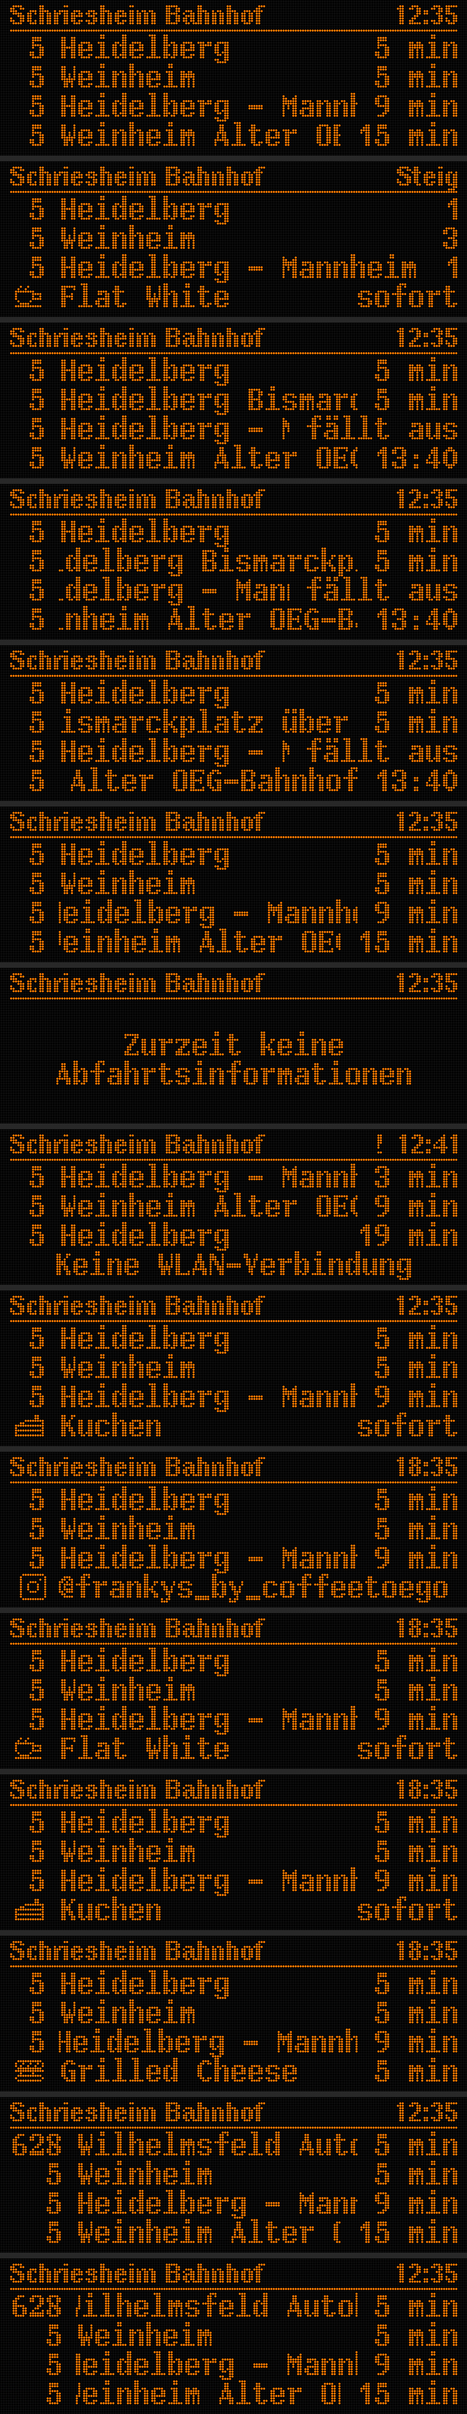
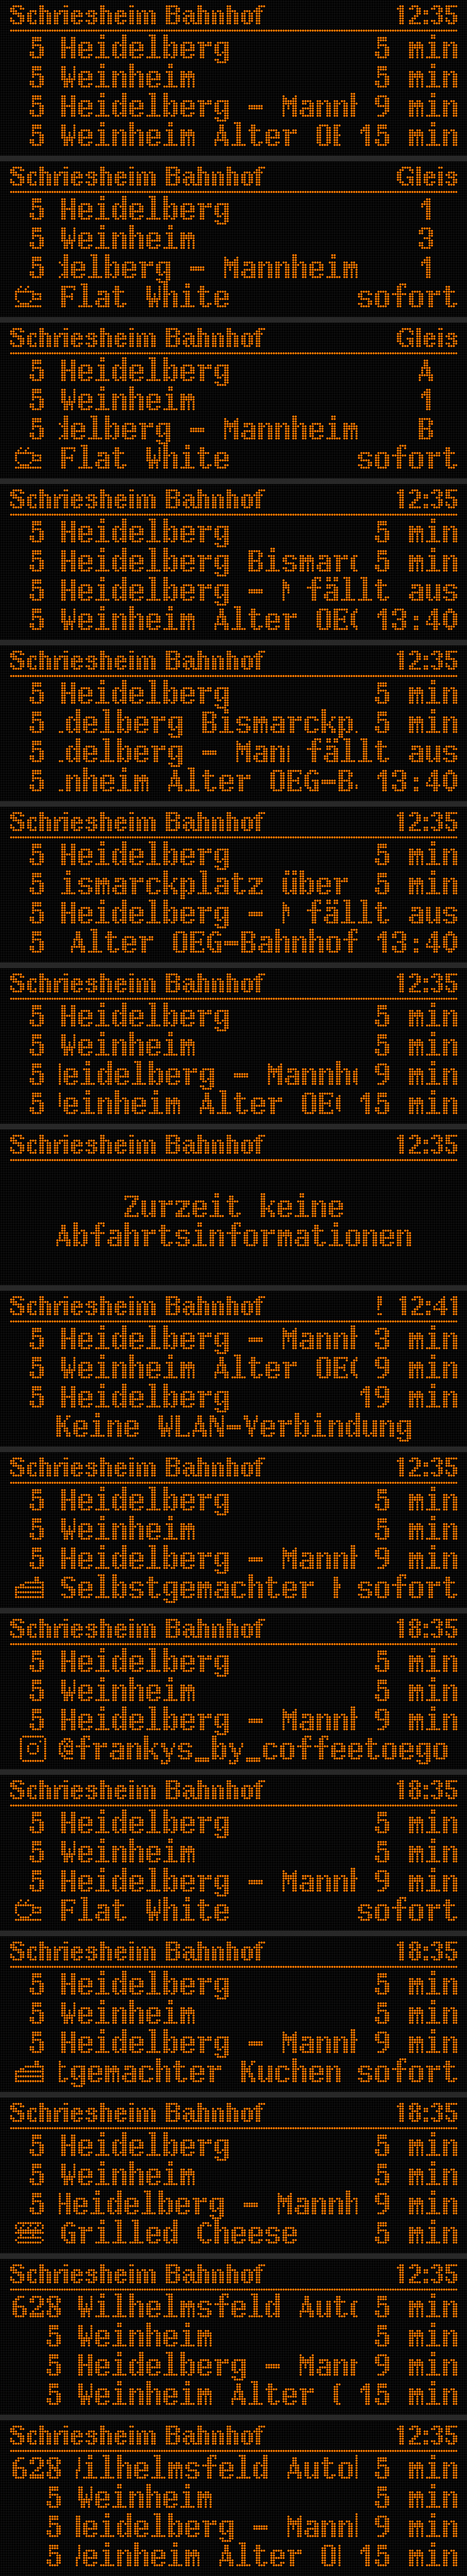
Gleise mittig unter der Überschrift, "Selbstgemachter Kuchen"
- Gleisnamen werden nach ihren Pixeln zentriert, so stehen "1" und "A"
  genau untereinander; das Ziel behält seine Breite neben dem Countdown.
- Promo "Kuchen" heißt jetzt "Selbstgemachter Kuchen".

Changed region(s): [[0.0, 0.0, 1.0, 0.9993]]

diff --git a/src/render.cpp b/src/render.cpp
@@ -32,6 +32,27 @@ static int ROW_ASCENT, ROW_DESCENT;  // set per frame from the font
 
 static int width(U8G2_FOR_ADAFRUIT_GFX& u8, const char* s) { return u8.getUTF8Width(s); }
 
+// Draws nothing, only records which columns a text really covers: glyphs sit
+// differently in their advance width ("1" vs "A"), so centring by width alone
+// doesn't line them up.
+struct InkBounds : Adafruit_GFX {
+  int minX = 32767, maxX = -32768;
+  InkBounds() : Adafruit_GFX(32767, 32767) {}
+  void drawPixel(int16_t x, int16_t, uint16_t) override {
+    if (x < minX) minX = x;
+    if (x > maxX) maxX = x;
+  }
+};
+
+// Twice the x of the ink centre of `s` drawn at x = 0 (doubled: no rounding).
+static int inkCenter2(Adafruit_GFX& g, U8G2_FOR_ADAFRUIT_GFX& u8, const char* s) {
+  InkBounds ink;
+  u8.begin(ink);
+  u8.drawUTF8(0, 100, s);
+  u8.begin(g);
+  return ink.maxX >= ink.minX ? ink.minX + ink.maxX : width(u8, s) - 1;
+}
+
 static void centered(U8G2_FOR_ADAFRUIT_GFX& u8, int base, const char* s) {
   u8.drawUTF8((W - width(u8, s)) / 2, base, s);
 }
@@ -470,20 +491,31 @@ void renderFrame(Adafruit_GFX& g, U8G2_FOR_ADAFRUIT_GFX& u8, uint16_t color, con
     }
     if (promoIsDep && promoLineWidth(u8, promoDep) > lineW) lineW = promoLineWidth(u8, promoDep);
     const int destX = MARGIN_X + lineW + COL_GAP;
+    // Platforms are centred (by their ink) under the header's PLATFORM_HEADER
+    u8.setFont(FONT_HEADER);
+    int headerX = W - MARGIN_X - width(u8, PLATFORM_HEADER);  // as in drawHeader
+    int platformCenter2 = 2 * headerX + inkCenter2(g, u8, PLATFORM_HEADER);
+    u8.setFont(FONT_ROW);
     char right[MAX_ROWS + 1][16];
-    int rightX[MAX_ROWS + 1];
+    int rightX[MAX_ROWS + 1], destEnd[MAX_ROWS + 1];
     // 1) destinations (possibly scrolled), 2) clip all rows, 3) line + time
     for (int i = 0; i < n; i++) {
-      if (showPlatforms && !rows[i]->cancelled && rows[i]->platformLabel[0])
-        snprintf(right[i], sizeof(right[i]), "%s", rows[i]->platformLabel);
-      else
-        formatCountdown(*rows[i], now, right[i], sizeof(right[i]));
+      formatCountdown(*rows[i], now, right[i], sizeof(right[i]));
       rightX[i] = W - MARGIN_X - width(u8, right[i]);
-      int overflow = width(u8, rows[i]->dest) - (rightX[i] - COL_GAP - destX);
+      // the destination keeps the width it has next to the countdown
+      destEnd[i] = rightX[i] - COL_GAP;
+      if (showPlatforms && !rows[i]->cancelled && rows[i]->platformLabel[0]) {
+        snprintf(right[i], sizeof(right[i]), "%s", rows[i]->platformLabel);
+        int x = (platformCenter2 - inkCenter2(g, u8, right[i])) / 2;
+        int maxX = W - MARGIN_X - width(u8, right[i]);  // a long label stays on the board
+        rightX[i] = x < maxX ? x : maxX;
+        if (rightX[i] - COL_GAP < destEnd[i]) destEnd[i] = rightX[i] - COL_GAP;
+      }
+      int overflow = width(u8, rows[i]->dest) - (destEnd[i] - destX);
       int off = overflow > 0 ? pingPongOffset(overflow, ms) : 0;
       u8.drawUTF8(destX - off, rowBase(i), rows[i]->dest);
     }
-    for (int i = 0; i < n; i++) clipRow(g, rowBase(i), destX, rightX[i] - COL_GAP);
+    for (int i = 0; i < n; i++) clipRow(g, rowBase(i), destX, destEnd[i]);
     for (int i = 0; i < n; i++) {
       int base = rowBase(i);
       u8.drawUTF8(MARGIN_X + lineW - width(u8, rows[i]->line), base, rows[i]->line);  // right-aligned

diff --git a/tools/preview/preview.cpp b/tools/preview/preview.cpp
@@ -106,6 +106,10 @@ int main(int argc, char** argv) {
   Board normal = fixtureBoard(now);
   frames.push_back(render(normal, ok, now, 0));
   frames.push_back(render(normal, ok, now, PLATFORM_EVERY_S * 1000 - 1));  // platforms instead of times
+  Board mixed = normal;  // labels of different glyph widths must line up
+  const char* labels[] = {"A", "1", "B", "2"};
+  for (int i = 0; i < 4; i++) strcpy(mixed.deps[i].platformLabel, labels[i]);
+  frames.push_back(render(mixed, ok, now, PLATFORM_EVERY_S * 1000 - 1));
 
   // long destination: start, mid-scroll, end
   Board longDest = normal;

diff --git a/include/config.h b/include/config.h
@@ -108,7 +108,7 @@
 // shows the text only from 12:00 until midnight, "@12-18" from 12:00 to 18:00.
 #define PROMO_TEXTS { "[ig]@frankys_by_coffeetoego", \
                       "[fw]|Flat White|sofort", \
-                      "[ku]|Kuchen|sofort", \
+                      "[ku]|Selbstgemachter Kuchen|sofort", \
                       "@12[gc]|Grilled Cheese|5 min", \
                     }
 #define PROMO_INTERVAL_S   75   // average pause between showings (+-50 %), 0 = off
